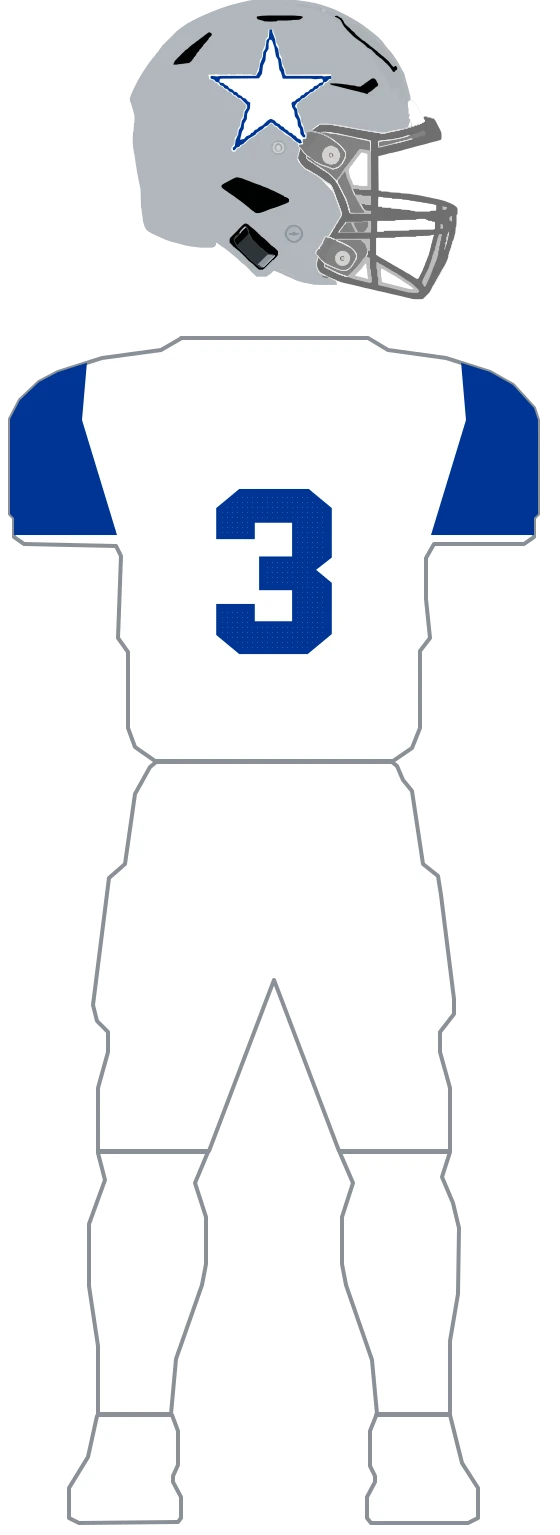
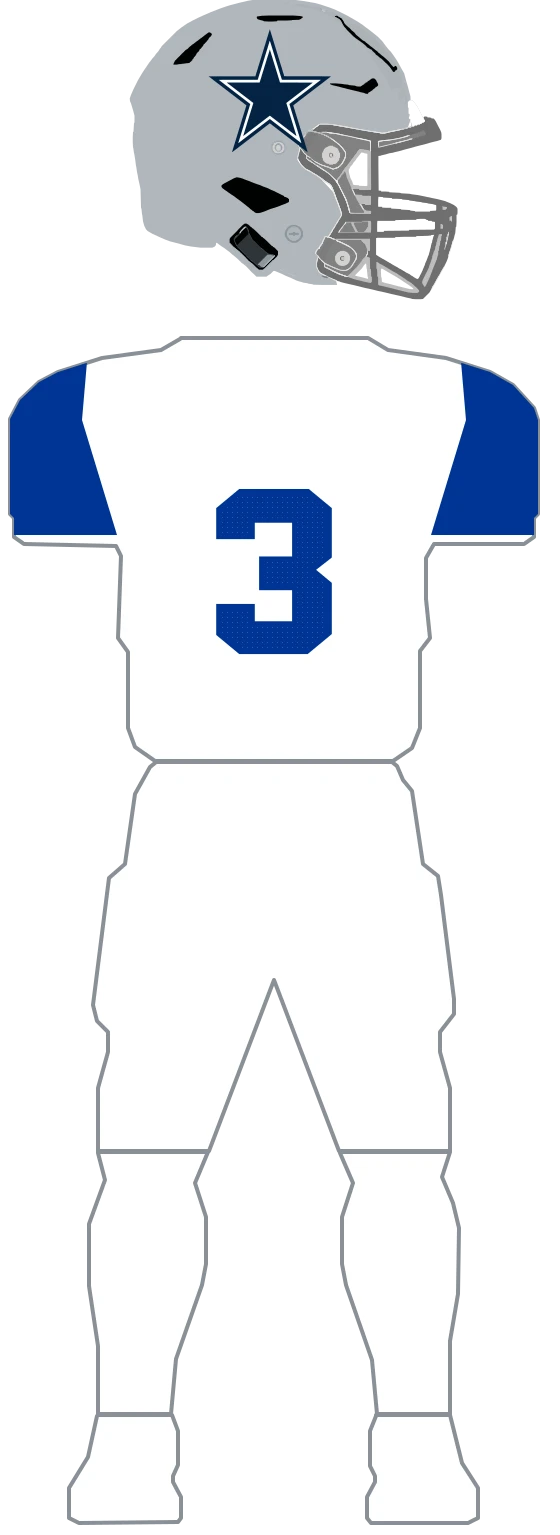
design(uniforms): refine Cowboys helmet decal

Changed region(s): [[0.3643, 0.0, 0.5768, 0.0919]]

diff --git a/web/lib/uniforms/teams/cowboys-decal.ts b/web/lib/uniforms/teams/cowboys-decal.ts
@@ -1,0 +1,20 @@
+// Provenance: user-supplied cowboys_star.svg (DEP-470).
+// Source SHA-256: 5d79b11b2f8c48c230ac474a7a30e21f03d00b83d1755e61765890322893e74b
+// Complete navy/white star paths in original paint order. The #FEFDFD canvas and #D8D8D8
+// export frame are explicitly excluded because they are image artifacts, not helmet-mark art.
+// Placement reference: https://www.gridiron-uniforms.com/GUD/controller/controller.php?action=teams&team_id=DAL
+// Generated by scripts/uniform-draw/cowboys_decal.py; coordinates include GUD placement.
+export const COWBOYS_DECAL_PATHS = [
+  {
+    fill: 'sourceNavy',
+    d: 'M419.000,127.000 L419.313,127.000 L422.447,137.256 L425.581,147.347 L428.088,155.618 L431.535,166.702 L434.042,174.973 L437.332,185.560 L439.839,193.831 L443.287,204.915 L445.794,213.186 L447.987,220.299 L448.144,220.464 L541.373,220.630 L540.590,221.457 L537.613,223.773 L531.972,228.074 L528.995,230.390 L520.534,236.841 L517.557,239.157 L511.916,243.458 L508.939,245.774 L506.745,247.428 L503.768,249.744 L501.575,251.399 L495.934,255.700 L492.957,258.016 L490.136,260.166 L487.159,262.482 L484.966,264.136 L482.145,266.287 L479.168,268.603 L476.975,270.257 L471.647,274.393 L469.454,276.047 L467.103,277.866 L466.163,278.528 L466.320,279.852 L469.454,289.942 L471.961,298.214 L475.564,309.793 L478.071,318.064 L481.832,330.140 L484.339,338.412 L487.786,349.495 L489.823,356.277 L491.703,362.233 L494.210,370.504 L494.680,371.993 L494.524,372.489 L492.487,370.835 L490.293,369.180 L484.652,364.879 L481.675,362.563 L476.034,358.262 L473.057,355.946 L467.417,351.645 L464.439,349.329 L455.978,342.878 L453.001,340.562 L450.181,338.412 L447.204,336.096 L445.010,334.441 L439.369,330.140 L436.392,327.824 L430.752,323.523 L427.775,321.207 L419.313,314.756 L418.530,315.087 L415.553,317.403 L407.092,323.854 L404.115,326.170 L398.474,330.471 L395.497,332.787 L387.036,339.239 L384.059,341.555 L378.418,345.856 L375.441,348.172 L366.980,354.623 L364.003,356.939 L358.362,361.240 L355.385,363.556 L346.924,370.007 L344.573,371.827 L343.946,372.323 L343.633,372.323 L343.790,371.496 L346.924,361.240 L350.057,351.149 L352.564,342.878 L356.011,331.795 L358.048,325.012 L359.929,319.057 L362.122,311.778 L364.003,305.823 L367.136,295.567 L370.270,285.476 L371.994,279.686 L372.150,278.528 L369.487,276.543 L366.510,274.227 L360.869,269.926 L357.892,267.610 L349.431,261.159 L346.454,258.843 L343.633,256.692 L340.656,254.376 L338.462,252.722 L335.642,250.572 L332.665,248.256 L330.471,246.601 L327.651,244.451 L324.674,242.135 L321.854,239.984 L318.876,237.668 L316.683,236.014 L313.862,233.864 L310.885,231.548 L302.424,225.096 L297.097,220.961 L296.940,220.630 L390.326,220.630 L390.796,218.645 L394.243,207.561 L396.594,199.786 L398.474,193.831 L400.981,185.560 L404.428,174.477 L406.465,167.694 L408.345,161.739 L410.539,154.626 L413.673,144.369 L416.336,135.767 L418.530,128.489 Z',
+  },
+  {
+    fill: 'sourceNavy',
+    d: 'M419.000,167.363 L419.313,167.363 L420.880,172.492 L423.857,182.086 L426.364,190.357 L429.968,201.937 L432.475,210.208 L435.922,221.292 L438.429,229.563 L439.369,232.540 L439.369,233.037 L505.022,233.202 L504.238,234.029 L502.201,235.518 L499.224,237.834 L493.583,242.135 L490.606,244.451 L487.786,246.601 L484.809,248.917 L482.615,250.572 L476.975,254.873 L473.997,257.188 L468.357,261.489 L465.380,263.805 L456.918,270.257 L453.941,272.573 L452.218,273.896 L452.375,274.723 L455.508,284.980 L458.172,293.582 L460.679,301.853 L464.283,313.433 L466.163,319.719 L468.043,325.674 L471.334,336.426 L472.274,339.404 L472.274,339.735 L471.490,339.404 L468.983,337.419 L466.790,335.765 L463.969,333.614 L460.992,331.298 L452.531,324.847 L449.554,322.531 L443.913,318.230 L440.936,315.914 L432.475,309.462 L429.498,307.146 L427.304,305.492 L424.484,303.342 L421.507,301.026 L419.783,299.702 L419.000,299.372 L413.359,303.673 L410.382,305.988 L404.741,310.289 L401.764,312.605 L396.124,316.906 L393.146,319.222 L390.953,320.877 L388.132,323.027 L385.155,325.343 L376.694,331.795 L371.367,335.930 L369.173,337.584 L366.823,339.404 L366.039,339.735 L366.510,337.915 L369.330,328.817 L371.367,322.035 L373.247,316.079 L375.754,307.974 L378.261,299.702 L381.708,288.619 L384.215,280.348 L386.096,274.227 L385.939,273.731 L377.478,267.279 L374.501,264.963 L371.680,262.813 L368.703,260.497 L366.510,258.843 L360.869,254.542 L357.892,252.226 L352.251,247.925 L349.274,245.609 L346.454,243.458 L344.260,241.804 L341.283,239.488 L335.642,235.187 L333.292,233.367 L333.292,233.037 L398.631,233.037 L399.257,231.548 L401.608,223.773 L403.488,217.818 L405.995,209.712 L408.032,202.929 L409.755,197.471 L412.262,189.199 L416.023,177.123 L418.530,168.852 Z',
+  },
+  {
+    fill: 'sourceWhite',
+    d: 'M419.000,149.828 L419.313,149.828 L421.194,155.784 L424.014,164.882 L426.521,173.153 L429.968,184.237 L432.475,192.508 L435.922,203.591 L438.429,211.862 L442.346,224.435 L443.287,227.412 L444.540,227.578 L520.847,227.578 L520.847,228.074 L518.810,229.563 L515.833,231.879 L513.639,233.533 L510.819,235.683 L507.842,237.999 L502.201,242.300 L499.224,244.616 L493.583,248.917 L490.606,251.233 L488.413,252.887 L485.592,255.038 L482.615,257.354 L476.975,261.655 L473.997,263.971 L465.536,270.422 L462.559,272.738 L459.739,274.889 L458.329,275.881 L458.642,277.370 L461.932,288.123 L464.439,296.394 L466.320,302.349 L469.454,312.605 L472.431,322.200 L474.938,330.471 L478.385,341.555 L480.578,348.668 L482.145,353.796 L482.145,354.127 L481.362,353.796 L479.482,352.307 L471.020,345.856 L468.043,343.540 L459.582,337.088 L456.605,334.772 L453.785,332.622 L450.808,330.306 L448.614,328.652 L445.637,326.336 L443.443,324.681 L440.623,322.531 L437.646,320.215 L429.185,313.763 L426.208,311.447 L423.387,309.297 L420.410,306.981 L419.313,306.154 L418.530,306.485 L415.553,308.801 L413.359,310.455 L410.539,312.605 L407.562,314.921 L401.921,319.222 L398.944,321.538 L393.303,325.839 L390.326,328.155 L388.132,329.809 L385.312,331.960 L382.335,334.276 L376.694,338.577 L373.717,340.893 L365.256,347.344 L362.279,349.660 L360.085,351.315 L357.108,353.631 L356.482,354.127 L356.168,354.127 L356.325,353.300 L358.518,346.021 L360.399,340.066 L362.906,331.795 L366.196,321.207 L368.233,314.425 L370.113,308.470 L372.307,301.191 L374.187,295.236 L377.321,284.980 L379.985,276.378 L379.671,275.716 L377.008,273.731 L374.031,271.415 L371.837,269.761 L369.017,267.610 L366.039,265.294 L360.399,260.993 L357.422,258.677 L348.961,252.226 L345.983,249.910 L340.343,245.609 L337.366,243.293 L328.904,236.841 L325.927,234.525 L323.107,232.375 L320.130,230.059 L317.466,228.074 L317.310,227.743 L328.278,227.578 L394.870,227.578 L395.497,225.923 L398.004,217.652 L399.884,211.697 L402.391,203.591 L404.428,196.809 L406.308,190.854 L408.815,182.748 L411.322,174.477 L414.926,162.897 L417.433,154.626 L418.843,149.994 Z M419.000,167.363 L416.493,175.635 L414.613,181.590 L412.106,189.696 L410.069,196.478 L408.502,201.441 L406.308,208.554 L403.801,216.660 L401.764,223.442 L398.787,232.871 L398.631,233.037 L333.292,233.037 L333.448,233.533 L335.642,235.187 L338.462,237.338 L341.439,239.654 L349.901,246.105 L352.878,248.421 L358.518,252.722 L361.496,255.038 L372.777,263.640 L375.754,265.956 L378.575,268.106 L381.552,270.422 L384.372,272.573 L386.096,273.896 L385.625,275.716 L382.492,285.972 L379.828,294.574 L377.321,302.845 L373.717,314.425 L371.524,321.704 L369.800,327.163 L367.293,335.434 L366.039,339.404 L366.039,339.735 L366.823,339.404 L369.330,337.419 L371.994,335.434 L374.501,333.449 L376.694,331.795 L382.335,327.494 L385.312,325.178 L393.773,318.726 L396.750,316.410 L402.391,312.109 L405.368,309.793 L411.009,305.492 L413.986,303.176 L416.180,301.522 L419.000,299.372 L419.783,299.702 L422.290,301.687 L424.484,303.342 L430.125,307.643 L433.102,309.959 L435.296,311.613 L438.116,313.763 L441.093,316.079 L446.734,320.380 L449.711,322.696 L458.172,329.148 L461.149,331.464 L466.790,335.765 L469.767,338.081 L471.961,339.735 L472.274,339.735 L471.804,337.915 L470.394,333.449 L467.887,325.178 L464.439,314.094 L461.932,305.823 L458.329,294.243 L455.822,285.972 L452.688,275.881 L452.218,274.393 L452.375,273.731 L454.568,272.077 L457.545,269.761 L459.739,268.106 L462.559,265.956 L465.536,263.640 L471.177,259.339 L474.154,257.023 L482.615,250.572 L484.966,248.752 L487.786,246.601 L490.763,244.285 L492.957,242.631 L495.934,240.315 L498.127,238.661 L501.104,236.345 L503.925,234.195 L505.022,233.367 L505.022,233.202 L439.369,233.037 L439.056,231.548 L436.079,221.953 L434.199,215.667 L432.318,209.712 L429.185,199.456 L426.208,189.861 L423.701,181.590 L420.254,170.506 L419.313,167.363 Z',
+  },
+] as const;

diff --git a/web/lib/uniforms/teams/cowboys.parts.ts b/web/lib/uniforms/teams/cowboys.parts.ts
@@ -14,42 +14,29 @@
 import {
   COWBOYS_COLLAR_CORE_WIDTH,
   COWBOYS_COLLAR_OUTER_WIDTH,
-  COWBOYS_DECAL_STAR_BODY_PATH,
-  COWBOYS_DECAL_STAR_OUTER_PATH,
   COWBOYS_HELMET_SILVER,
   COWBOYS_NECK_BAND_CORE,
   COWBOYS_NECK_BAND_OUTER,
   COWBOYS_SLEEVE_CAP_LEFT,
   COWBOYS_SLEEVE_CAP_RIGHT,
 } from './cowboys';
+import { COWBOYS_DECAL_PATHS as GENERATED_COWBOYS_DECAL_PATHS } from './cowboys-decal';
 import { compileParts, type PartLayer, type TeamPartsDefinition, type UniformPart } from './parts';
 
 const COLLAR_PATH = 'M206,388 L294,455 L386,388';
 
-// The navy star: the full silhouette painted white and the star body over it reproduces the white
-// keyline as the gap between them (see cowboys.ts — the outer keyline hairline is dropped). Both
-// paths need fill-rule evenodd for the star's counters.
-function star(body: string): PartLayer[] {
-  return [
-    {
-      id: 'cowboys-decal-star-keyline',
-      surface: 'helmet',
-      d: COWBOYS_DECAL_STAR_OUTER_PATH,
-      clip: true,
-      kind: 'fill',
-      fillRule: 'evenodd',
-      fill: 'white',
-    },
-    {
-      id: 'cowboys-decal-star-body',
-      surface: 'helmet',
-      d: COWBOYS_DECAL_STAR_BODY_PATH,
-      clip: true,
-      kind: 'fill',
-      fillRule: 'evenodd',
-      fill: body,
-    },
-  ];
+// The complete navy/white star is generated from the supplied SVG in its original paint order.
+// The generator excludes only that file's canvas/frame export artifacts; its coordinates preserve
+// the existing GUD-measured helmet envelope.
+function star(): PartLayer[] {
+  return GENERATED_COWBOYS_DECAL_PATHS.map((layer, index) => ({
+    id: `cowboys-decal-${index}`,
+    surface: 'helmet',
+    d: layer.d,
+    clip: true,
+    kind: 'fill',
+    fill: layer.fill,
+  }));
 }
 
 // The silver shell with the navy star — one object, shared by both kits. The "Blue Metallic" shell
@@ -62,7 +49,7 @@ function star(body: string): PartLayer[] {
 const HELMET_SILVER_STAR: UniformPart = {
   base: 'helmetSilver',
   facemask: 'steelGrey',
-  layers: star('navy'),
+  layers: star(),
 };
 
 // Home jersey: navy body, white/silver neck band, white-over-silver V-collar, white numerals.
@@ -143,6 +130,10 @@ export const COWBOYS_PARTS: TeamPartsDefinition = {
   palette: {
     navy: '#003594',
     white: '#FFFFFF',
+    // Exact colors retained from the supplied star source; they are intentionally separate from
+    // the jersey navy/white palette values.
+    sourceNavy: '#032343',
+    sourceWhite: '#FCFCFC',
     silver: '#869397',
     // The published helmet "Blue Metallic" — the shell is several steps lighter than the jersey
     // silver (see cowboys.ts).

diff --git a/web/scripts/uniform-draw/cowboys_decal.py b/web/scripts/uniform-draw/cowboys_decal.py
@@ -1,0 +1,100 @@
+"""Bake the supplied Dallas Cowboys star into the existing helmet envelope (DEP-470)."""
+from __future__ import annotations
+
+import hashlib
+import re
+import sys
+import xml.etree.ElementTree as ET
+from pathlib import Path
+
+SOURCE = Path(sys.argv[1]) if len(sys.argv) > 1 else Path('/Users/cwharris/Downloads/decal_svgs/cowboys_star.svg')
+TARGET = Path(__file__).resolve().parents[2] / 'lib/uniforms/teams/cowboys-decal.ts'
+TOKEN = re.compile(r'[A-Za-z]|[-+]?(?:\d*\.\d+|\d+\.?)(?:[eE][-+]?\d+)?')
+
+# The star's full navy envelope in the supplied 2048px viewBox is x=238..1808/y=282..1757.
+# It maps to the existing Cowboys helmet placement x=296..542/y=127..371, measured from the GUD
+# composite. Keeping that envelope isolates this source-art refresh from the placement decision.
+SX, SY = 238.0, 282.0
+TX, TY = 296.0, 127.0
+SCALE_X, SCALE_Y = 246.0 / (1808.0 - 238.0), 244.0 / (1757.0 - 282.0)
+
+
+def path(d: str, transform: str | None) -> str:
+    nums = [float(x) for x in re.findall(r'-?(?:\d+\.?\d*|\.\d+)', transform or '')]
+    ox, oy = (nums + [0, 0])[:2]
+    tokens = TOKEN.findall(d)
+    i = 0
+    cmd = ''
+    x = y = 0.0
+    start = (0.0, 0.0)
+    out: list[str] = []
+    while i < len(tokens):
+        if tokens[i].isalpha():
+            cmd = tokens[i]
+            i += 1
+            if cmd in 'Zz':
+                out.append('Z')
+                x, y = start
+                continue
+        rel = cmd.islower()
+        op = cmd.upper()
+        if op in ('M', 'L'):
+            x0, y0 = float(tokens[i]), float(tokens[i + 1])
+            i += 2
+            x, y = (x + x0, y + y0) if rel else (x0, y0)
+            if op == 'M':
+                start = (x, y)
+            out.append(
+                ('M' if op == 'M' else 'L')
+                + f'{TX + (x + ox - SX) * SCALE_X:.3f},{TY + (y + oy - SY) * SCALE_Y:.3f}'
+            )
+            if op == 'M':
+                cmd = 'l' if rel else 'L'
+        elif op == 'H':
+            v = float(tokens[i])
+            i += 1
+            x = x + v if rel else v
+            out.append(f'L{TX + (x + ox - SX) * SCALE_X:.3f},{TY + (y + oy - SY) * SCALE_Y:.3f}')
+        elif op == 'V':
+            v = float(tokens[i])
+            i += 1
+            y = y + v if rel else v
+            out.append(f'L{TX + (x + ox - SX) * SCALE_X:.3f},{TY + (y + oy - SY) * SCALE_Y:.3f}')
+        else:
+            raise ValueError(f'unsupported SVG command {cmd}')
+    return ' '.join(out)
+
+
+def token(fill: str) -> str:
+    if fill.upper() == '#032343':
+        return 'sourceNavy'
+    if fill.upper() == '#FCFCFC':
+        return 'sourceWhite'
+    raise ValueError(f'unexpected mark color {fill}')
+
+
+source = SOURCE.read_bytes()
+root = ET.fromstring(source)
+items: list[tuple[str, str]] = []
+for element in root:
+    if element.tag.rsplit('}', 1)[-1] != 'path':
+        continue
+    # The first path is the SVG's #FEFDFD canvas and the fourth is its #D8D8D8 right/bottom
+    # export frame. Neither belongs to the helmet mark; retaining either would paint a square over
+    # the shell. Every visible navy/white star path remains, in source paint order.
+    if element.attrib.get('fill', '').upper() in {'#FEFDFD', '#D8D8D8'}:
+        continue
+    items.append((token(element.attrib['fill']), path(element.attrib['d'], element.attrib.get('transform'))))
+
+header = (
+    '// Provenance: user-supplied cowboys_star.svg (DEP-470).\n'
+    f'// Source SHA-256: {hashlib.sha256(source).hexdigest()}\n'
+    '// Complete navy/white star paths in original paint order. The #FEFDFD canvas and #D8D8D8\n'
+    '// export frame are explicitly excluded because they are image artifacts, not helmet-mark art.\n'
+    '// Placement reference: https://www.gridiron-uniforms.com/GUD/controller/controller.php?action=teams&team_id=DAL\n'
+    '// Generated by scripts/uniform-draw/cowboys_decal.py; coordinates include GUD placement.\n'
+    'export const COWBOYS_DECAL_PATHS = [\n'
+)
+TARGET.write_text(
+    header + ''.join(f"  {{ fill: '{fill}', d: '{d}' }},\n" for fill, d in items) + '] as const;\n'
+)
